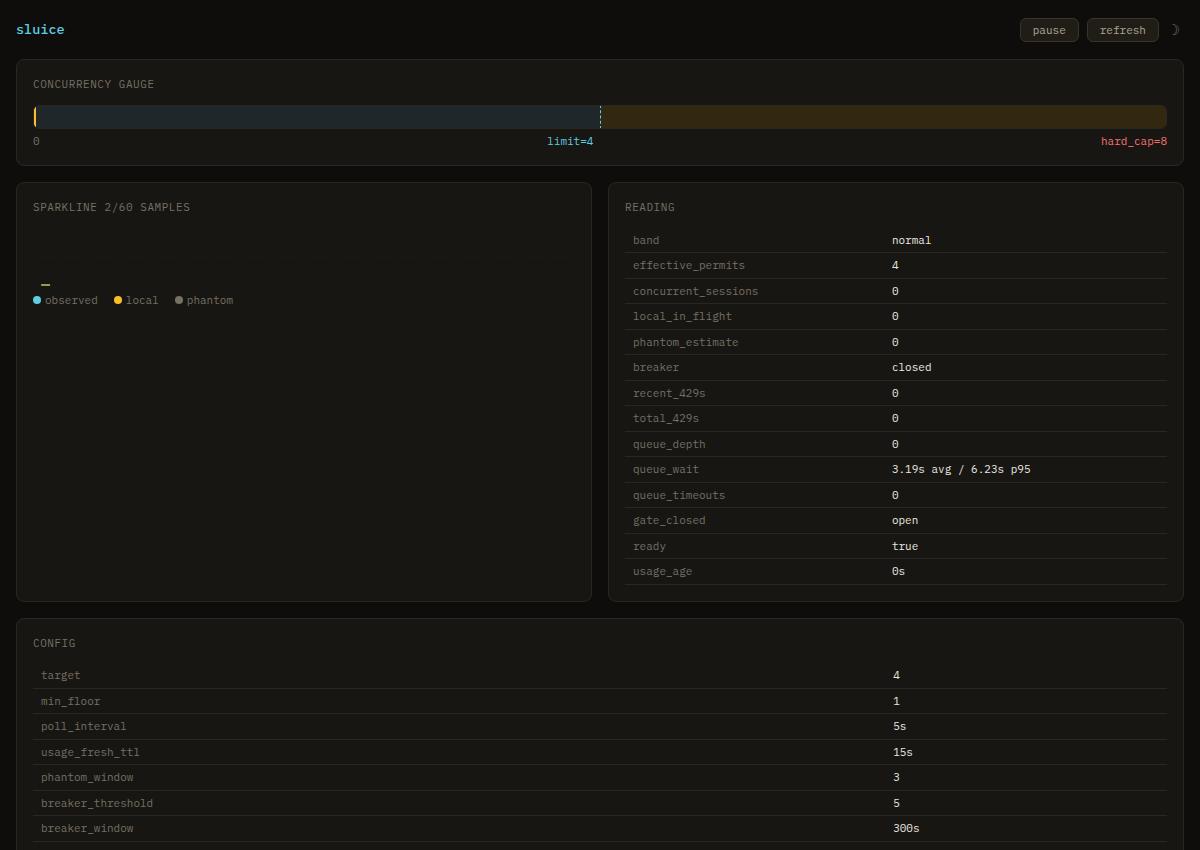
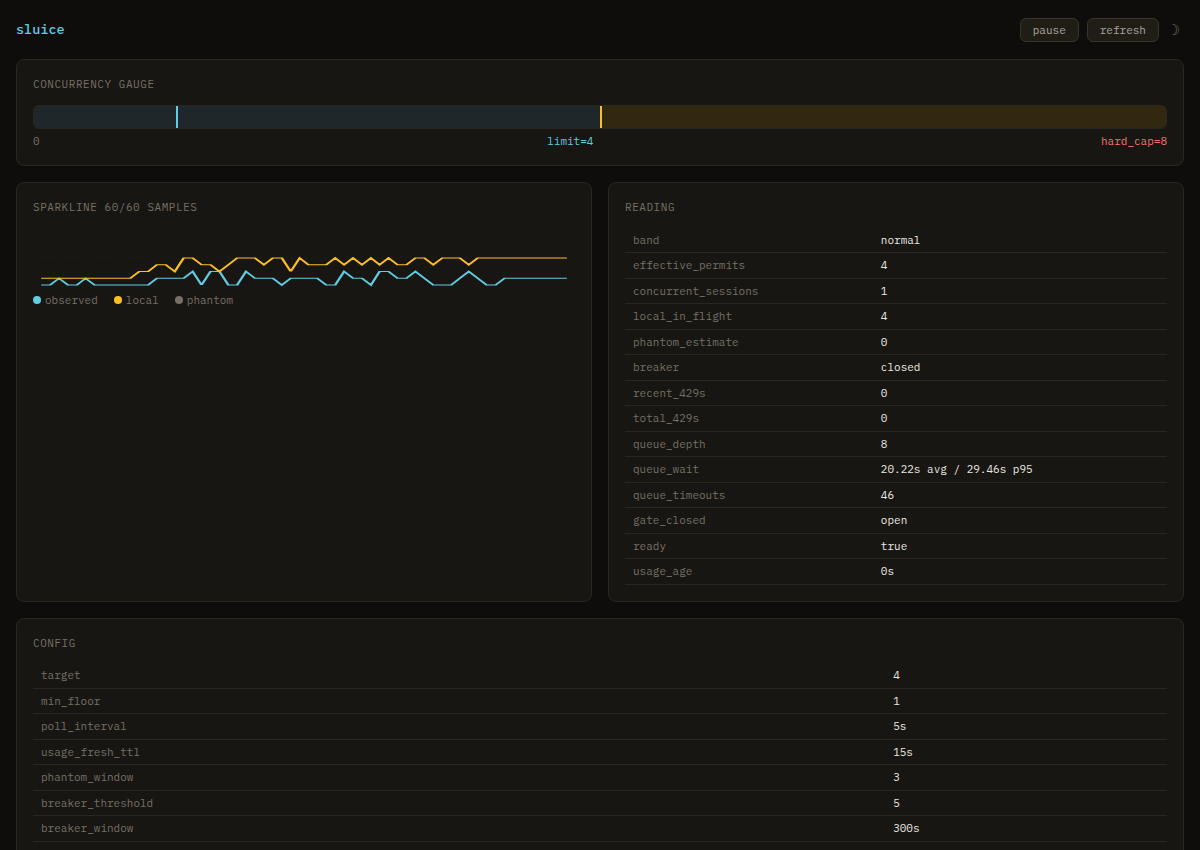
docs: replace idle dashboard screenshot with one under deliberate fleet overload
Local in-flight pinned at the limit, zero 429s, excess demand absorbed as
queue wait — the screenshot now shows the tool doing its job rather than
sitting idle. Caption notes the observed-vs-local gap the reconcile loop
watches.

Claude-Session: https://claude.ai/code/session_01PiWu4JZrEJAxkgSnYJGdrN

diff --git a/README.md b/README.md
@@ -62,7 +62,13 @@ sluice is that shared choke point, and it closes the loop against upstream truth
   (dashboard sparkline + `/history.json`), optionally persisted to SQLite
   (`--history-store`) so a restart doesn't wipe the picture of what led up to it.
 
-![sluice live dashboard: concurrency gauge against limit and hard cap, sparkline, current reading, and config](docs/dashboard.png)
+![sluice live dashboard during a deliberate fleet overload: local in-flight pinned at the limit of 4, provider-observed sessions below it, deep queue, zero 429s](docs/dashboard.png)
+
+*The dashboard mid-way through a deliberate fleet overload (~4× oversubscribed): local
+in-flight (yellow) rides the limit of 4 and never crosses it, the excess demand shows up
+as queue wait instead of provider 429s — `total_429s: 0` — and the gap between the
+provider's observed count (blue) and local truth is exactly the kind of divergence the
+reconciliation loop exists to watch.*
 
 ## Quickstart
 